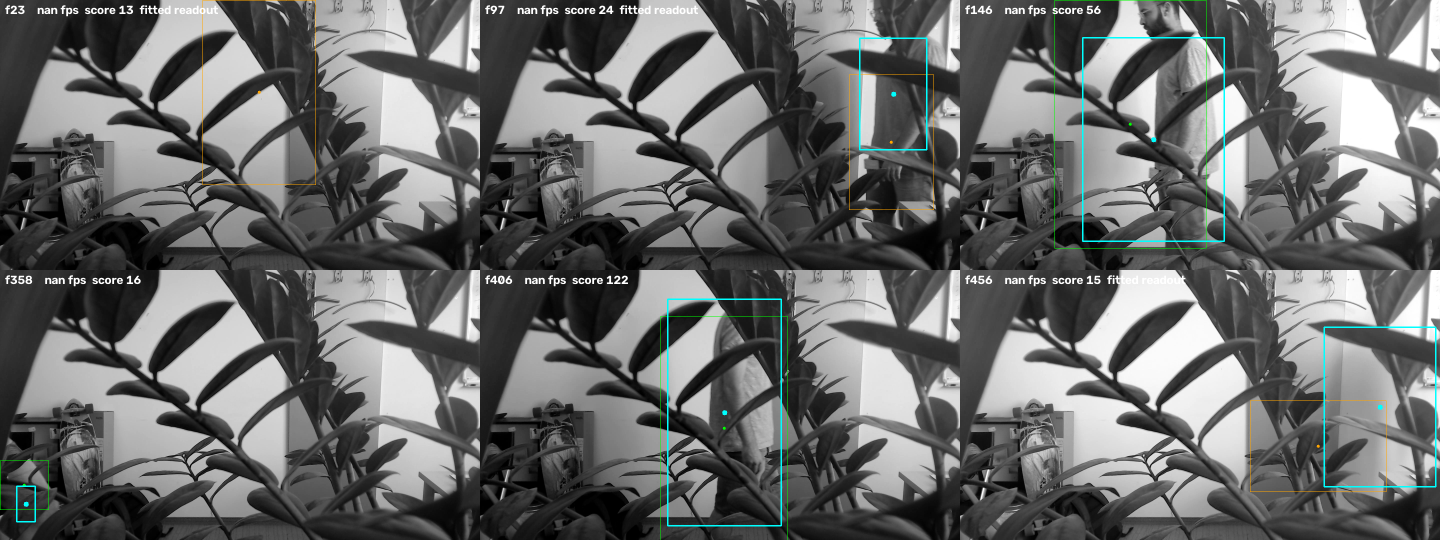
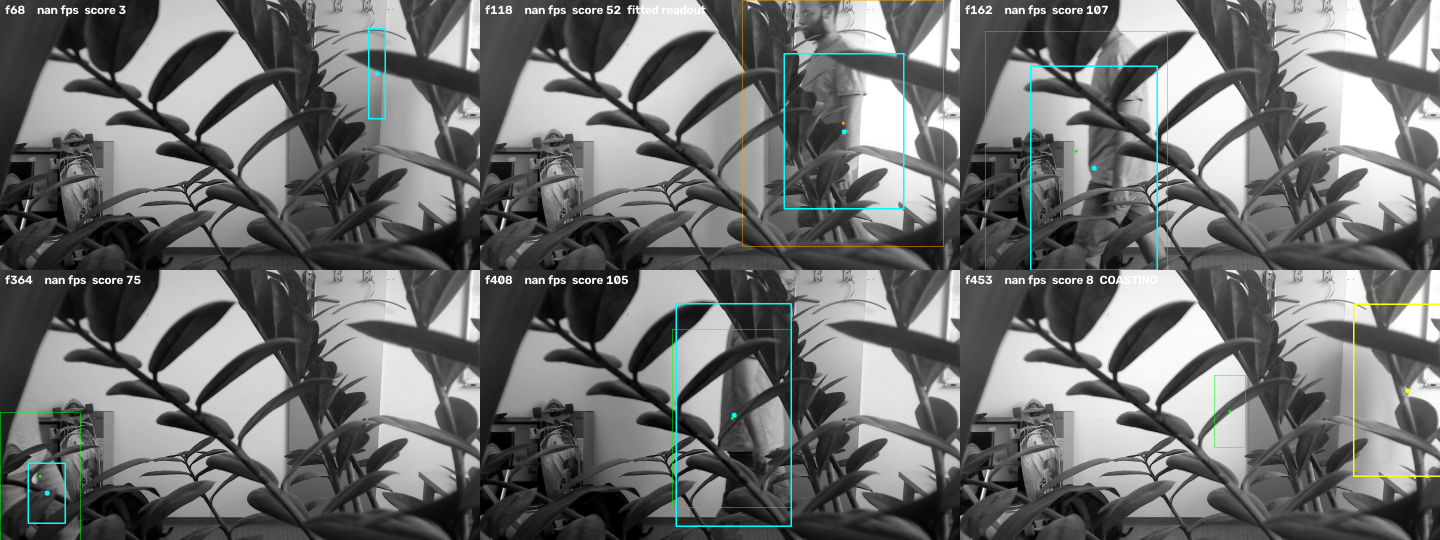
Suppress MOG2 warm-up for 2x bg_frames: early false positives 57-75% -> 0%
With the user's real presence labels (noisy1 person in 65-195 and 353-453; noisy2 70-160 and
270-373) the false positives they observed decompose cleanly, and NOT the way I described them.

  clip         absent window       emis  boxed%
  walk_noisy1  0-64  (warm-up)       42    57%
  walk_noisy1  196-352              157     0%
  walk_noisy1  454-523               64    20%
  walk_noisy2  0-69  (warm-up)       47    62%
  walk_noisy2  161-269              109    13%
  ido_walk     0-30  (warm-up)        8    75%
  ido_walk     195-277               83    22%

EVERY clip is bad in its FIRST absent window and fine afterwards, ido_walk included. The cause is
MOG2 adaptation, not the fan: the learning rate is ~1/history, so suppressing output for 1x
bg_frames releases it after one time constant, about 63% converged. warmup_mult=2 (first emission
at frame 53 instead of 23) takes the early window to 0% on all three clips, and it is free on NFO
ground truth - hit@0.1 0.989/1.000/0.995/0.989 against 0.990/1.000/0.995/0.977 at 1x, seq4
actually improving, for ~3.5% fewer scored frames. 3x and 4x also give 0% but cost more startup
dead time for no gain.

THE FAN IS ESSENTIALLY A NON-PROBLEM, which is the opposite of what I claimed and of the naive
expectation. walk_noisy1's 157-frame mid-clip absent stretch produces ZERO boxes - cleaner than
ido_walk's 22% - and after the fix its absent-frame rate over the whole clip is 6% against
[…]

diff --git a/tracking/stream/stream.py b/tracking/stream/stream.py
@@ -65,7 +65,7 @@ class StreamPipeline:
     def __init__(self, person_height: float, bg_frames: int = 30, var_threshold: float = 16.0,
                  readout: str = 'center', min_solidity: float = 0.1, max_age: int = 6,
                  min_track_length: int = 3, max_detections: int = 40,
-                 suppress_warmup: bool = True):
+                 suppress_warmup: bool = True, warmup_mult: float = 2.0):
         assert readout in ('center', 'newest'), readout
         self.kw, kalman = scale_relative_params(person_height)
         # ponytail: _Track's covariances are class attributes, so this is process-global.
@@ -82,7 +82,12 @@ class StreamPipeline:
         # already says any window before bg_frames have elapsed is under-adapted. Suppressing
         # output until then costs the first bg_frames-1-SPAN emissions and introduces no new
         # constant.
-        self.warmup = bg_frames if suppress_warmup else 0
+        # warmup_mult * bg_frames, not 1x. MOG2's learning rate is ~1/history, so after
+        # `history` frames the model is one time constant in - about 63% converged - and the mask
+        # is still full of spurious foreground. Measured on the first person-absent window of
+        # three clips, 1x left 57%/62%/75% of emissions carrying a box against 0%/13%/22% in the
+        # same clips' MID-clip absent windows. The multiplier is what closes that gap.
+        self.warmup = int(round(warmup_mult * bg_frames)) if suppress_warmup else 0
         # one persistent subtractor: preprocess.foreground_mask builds a fresh MOG2 per
         # call, which is exactly what a stream must not do
         self.mog = cv2.createBackgroundSubtractorMOG2(history=bg_frames,
